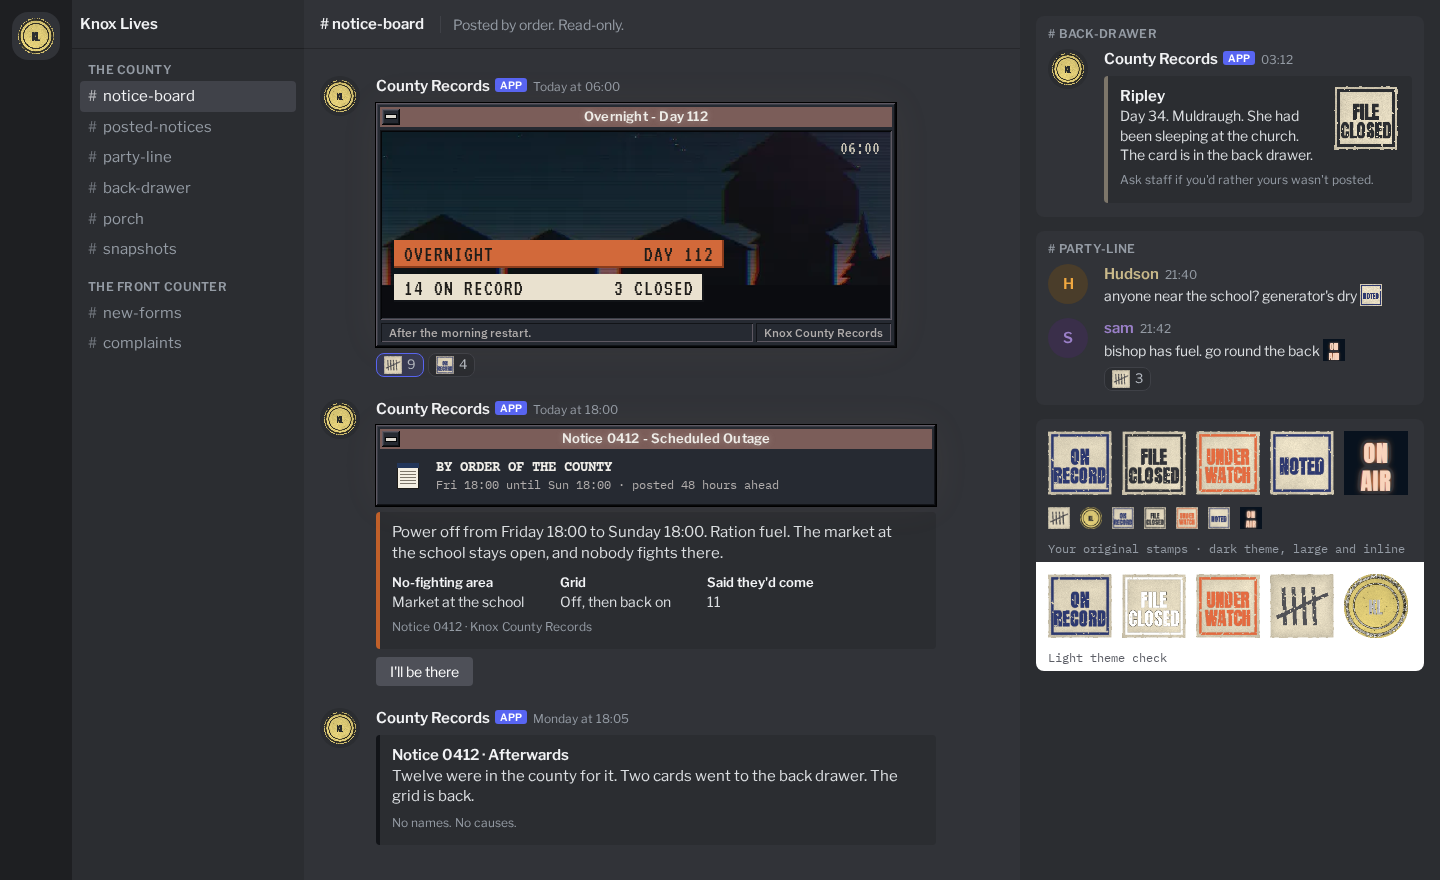
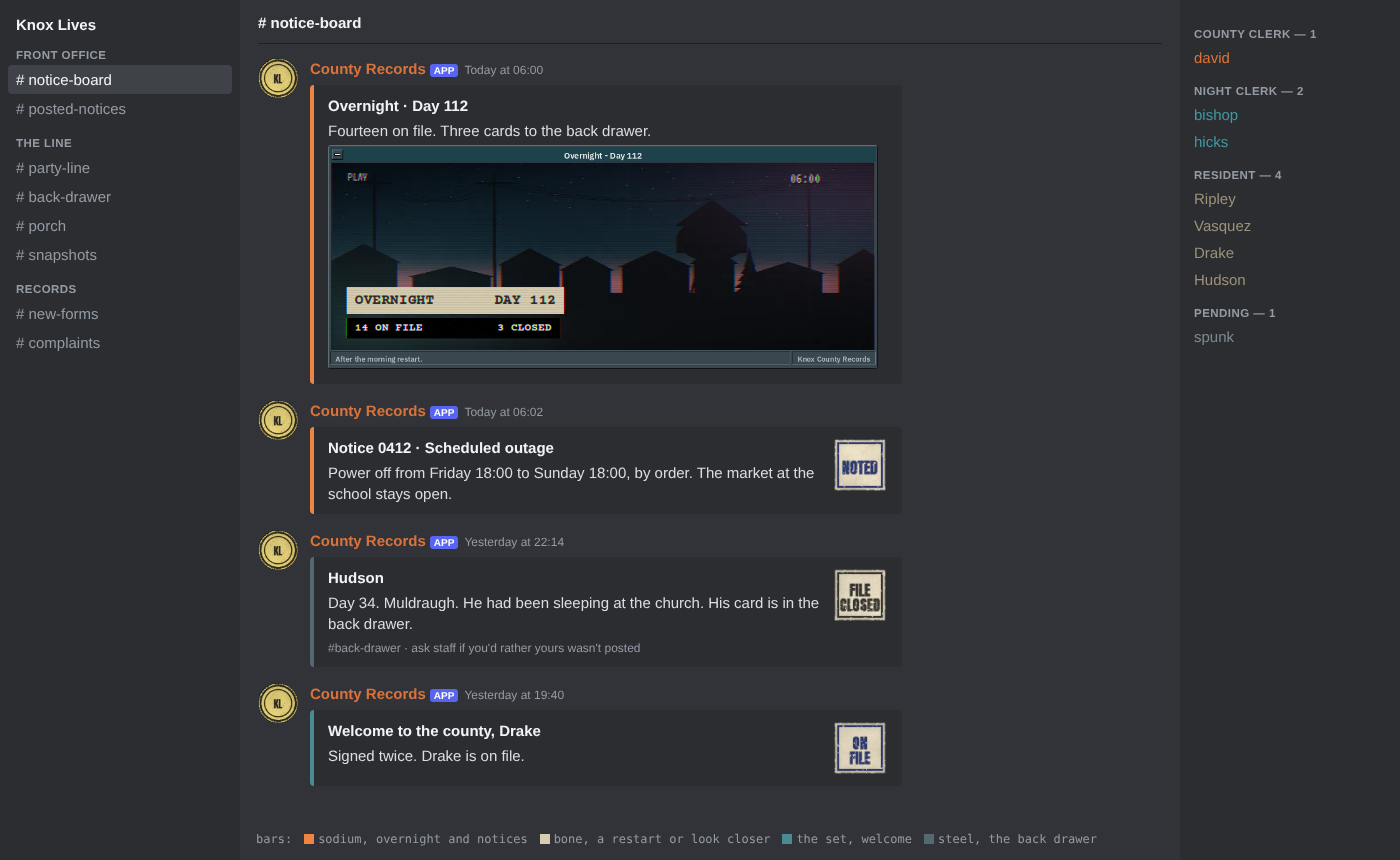
Sign-off: the site in the style book's colours; the briefing rebuilt (auditing and vetting)
Claude-Session: https://claude.ai/code/session_01T8YdQxmeWwRBCqmXfJeBS4

diff --git a/kc-fd1201557399/index.html b/kc-fd1201557399/index.html
@@ -10,24 +10,24 @@
 <link rel="preconnect" href="https://fonts.googleapis.com">
 <link rel="stylesheet" href="https://fonts.googleapis.com/css2?family=IBM+Plex+Sans:ital,wght@0,400;0,600;1,400&family=Courier+Prime:wght@400;700&family=VT323&family=Reenie+Beanie&display=swap">
 <style>
-/* Layout: the County Machine in Dusk (the server family's one look, David 6 Nov). A night desktop;
-   slate windows with horizon-mauve title bars hold each section; cream paper cards are the brightest
-   thing on screen; a clerk's pencil (Reenie Beanie) marks what is only a suggestion; orange only for
+/* Layout: the County Machine in the Sign-off scheme (the style book's colours, Record Began C1a's
+   materials; David 6 Nov). A night desktop; cabinet-steel windows with the set's teal title bars hold each section; cream paper cards are the brightest
+   thing on screen; a clerk's pencil (Reenie Beanie) marks what is only a suggestion; sodium only for
    what is not built yet. Deliberately one dark look: the records room at night. */
 :root{
   color-scheme: dark;
-  --night:#0D0E12; --face:#262A32; --hi:#5E5862; --lt:#3B3E47; --shadow:#121418; --dark:#050608;
-  --title:#7B5D59; --title-deep:#61423E; --title-off:#36313A;
-  --glow:#EFEDE8; --text:#DCD8D0; --mute:#A39DA5; --sun:#BB8E74;
-  --loud:#C0602A; --loud-dark:#E6773F; --ok:#9DB89A;
-  --paper:#E9E1CF; --paper-2:#DDCDAA; --ink:#26304A; --ballpoint:#2D3B6B; --pencil:#3E4046; --stamp:#1E2C6E; --violet:#6A4A9A;
+  --night:#0A141E; --face:#3B474E; --hi:#6A7A82; --lt:#4B5960; --shadow:#1A2328; --dark:#070B0E;
+  --title:#1E424C; --title-deep:#16353D; --title-off:#283238;
+  --glow:#ECF0EC; --text:#CDD5D3; --mute:#8D9CA2; --sun:#D6CCB0;
+  --loud:#EE8642; --loud-dark:#EE8642; --ok:#9DB89A;
+  --paper:#E5DBC1; --paper-2:#D6CCB0; --ink:#282725; --ballpoint:#22284E; --pencil:#46464A; --stamp:#1E2C6E; --violet:#6A4A9A;
   --ui:"IBM Plex Sans", Arial, sans-serif; --typed:"Courier Prime", "Courier New", monospace;
   --term:"VT323", "Courier New", monospace; --hand:"Reenie Beanie", "Comic Sans MS", cursive;
 }
 *{box-sizing:border-box}
 body{background:var(--night);color:var(--text);font:16px/1.6 var(--ui);margin:0}
 .desk{max-width:1120px;margin:0 auto;padding-block:24px 72px;padding-left:max(16px, env(safe-area-inset-left, 0px));padding-right:max(16px, env(safe-area-inset-right, 0px));display:flex;flex-direction:column;gap:30px}
-a{color:#D9B9A6}
+a{color:#D6CCB0}
 a:focus-visible, summary:focus-visible, button:focus-visible{outline:1px dotted var(--glow);outline-offset:2px}
 /* windows */
 .win{background:var(--face);border:1px solid var(--dark);box-shadow:inset 1px 1px 0 var(--hi), inset -1px -1px 0 var(--shadow), inset 2px 2px 0 var(--lt);padding:3px;min-width:0;scroll-margin-top:12px}
@@ -65,18 +65,18 @@ ul,ol{margin:0;padding-left:22px} li+li{margin-top:5px} li{max-width:72ch}
 .card-p p,.card-p li{font-size:15px}
 .card-p .k{font:400 21px/1 var(--term);color:var(--title-deep)}
 .pencil{font:400 27px/1.1 var(--hand);color:var(--pencil)}
-.onslate .pencil,.pencil.dark{color:#C9C2B6}
+.onslate .pencil,.pencil.dark{color:#CDD5D3}
 /* stamps: always words */
 .stamp{display:inline-block;font:700 12px/1 var(--typed);letter-spacing:.12em;text-transform:uppercase;padding:3px 6px;border:2px solid currentColor;transform:rotate(-2deg);white-space:nowrap}
-.stamp.navy{color:var(--stamp)} .stamp.violet{color:var(--violet)} .stamp.pencil{color:var(--pencil);font-family:var(--typed);font-size:12px} .stamp.loud{color:#9C4322}
+.stamp.navy{color:var(--stamp)} .stamp.violet{color:var(--violet)} .stamp.pencil{color:var(--pencil);font-family:var(--typed);font-size:12px} .stamp.loud{color:#864626}
 .onslate .stamp.navy,.win .stamp.navy{color:#AFC0F0} .win .stamp.loud{color:var(--loud-dark)} .win .stamp.ok{color:var(--ok)} .win .stamp.pencil{color:var(--mute)}
-.paper .stamp.navy,.card-p .stamp.navy{color:var(--stamp)} .paper .stamp.loud,.card-p .stamp.loud{color:#9C4322} .card-p .stamp.ok,.paper .stamp.ok{color:#3E6B3A}
+.paper .stamp.navy,.card-p .stamp.navy{color:var(--stamp)} .paper .stamp.loud,.card-p .stamp.loud{color:#864626} .card-p .stamp.ok,.paper .stamp.ok{color:#3E6B3A}
 /* tables */
 .tw{overflow-x:auto;max-width:100%}
 table{border-collapse:collapse;width:100%;font-size:15px}
 th,td{text-align:left;vertical-align:top;padding:8px 10px;border-bottom:1px solid var(--lt)}
 th{color:var(--glow);font-weight:600;background:var(--title-off)}
-.paper th,.paper td{border-bottom:1px solid #C9B98F}
+.paper th,.paper td{border-bottom:1px solid #CDBF9C}
 .paper th{background:var(--paper-2);color:var(--ink)}
 td:first-child{font-weight:600;color:var(--glow)} .paper td:first-child{color:var(--ink)}
 /* flow */
@@ -135,7 +135,7 @@ details.card>.in{padding:4px 16px 18px;display:flex;flex-direction:column;gap:12
     <p class="eyebrow">Knox County, Kentucky · July 1993</p>
     <h1 class="sr">Knox Lives</h1>
     <p class="lede">A small, vetted Project Zomboid server where one world runs for months, the county falls apart and is rebuilt by the people living in it, and a record remembers who they were. This page explains the whole thing from the start, for anyone joining the admin team.</p>
-    <div class="term" role="note">COUNTY RECORDS · ADMINS' BRIEFING<br><span class="c">STATUS</span> DESIGN AGREED · SERVER RENTED · NOTHING LIVE YET<br><span class="c">YOUR PART</span> READ, THEN COME TO THE MEETING WITH VIEWS ON 11 CHOICES<span class="cursor" aria-hidden="true">&nbsp;</span></div>
+    <div class="term" role="note">COUNTY RECORDS · ADMINS' BRIEFING<br><span class="c">STATUS</span> DESIGN AGREED · AUDITING AND VETTING · NOTHING LIVE YET<br><span class="c">YOUR PART</span> READ, THEN COME TO THE MEETING WITH VIEWS ON 11 CHOICES<span class="cursor" aria-hidden="true">&nbsp;</span></div>
     <div class="split">
       <div class="note"><h3>How to read this</h3><p>Top to bottom takes about 30 minutes. Each section starts with the short version; the detail opens behind <b>More &gt;&gt;</b>. Anything in pencil, <span class="pencil dark">like this</span>, is a suggestion for the admins to accept or change.</p></div>
       <div class="note"><h3>What you are asked to do</h3><p>Nothing technical. The code, the mods and the fixes are the workshop's job. The admins decide how the county runs: when things open, how leadership forms, what counts as fair. Those choices are gathered in <a href="#meeting">the meeting</a>.</p></div>
@@ -499,23 +499,23 @@ details.card>.in{padding:4px 16px 18px;display:flex;flex-direction:column;gap:12
     <h2>From paper to a living county</h2>
     <div class="svgw">
       <svg viewBox="0 0 1040 250" width="1040" height="250" role="img" aria-label="Roadmap: design agreed; under review with the admins; testing on the server; the trial run; go-live; chapters.">
-        <line x1="40" y1="70" x2="1000" y2="70" stroke="#5E5862" stroke-width="4"/>
-        <line x1="40" y1="70" x2="330" y2="70" stroke="#BB8E74" stroke-width="4"/>
-        <g font-size="14" fill="#DCD8D0">
-          <circle cx="60" cy="70" r="11" fill="#BB8E74"/><text x="60" y="38" text-anchor="middle" font-weight="600" fill="#EFEDE8">Design</text>
+        <line x1="40" y1="70" x2="1000" y2="70" stroke="#6A7A82" stroke-width="4"/>
+        <line x1="40" y1="70" x2="330" y2="70" stroke="#D6CCB0" stroke-width="4"/>
+        <g font-size="14" fill="#CDD5D3">
+          <circle cx="60" cy="70" r="11" fill="#D6CCB0"/><text x="60" y="38" text-anchor="middle" font-weight="600" fill="#ECF0EC">Design</text>
           <text x="60" y="104" text-anchor="middle">The world, rules,</text><text x="60" y="122" text-anchor="middle">groups, grid, trade,</text><text x="60" y="140" text-anchor="middle">voice, mods</text><text x="60" y="166" text-anchor="middle" fill="#9DB89A">agreed</text>
-          <circle cx="245" cy="70" r="11" fill="#BB8E74"/><text x="245" y="38" text-anchor="middle" font-weight="600" fill="#EFEDE8">Under review</text>
-          <text x="245" y="104" text-anchor="middle">The admins read this,</text><text x="245" y="122" text-anchor="middle">then decide the</text><text x="245" y="140" text-anchor="middle">open choices</text><text x="245" y="166" text-anchor="middle" fill="#BB8E74">now</text>
-          <circle cx="430" cy="70" r="11" fill="#262A32" stroke="#BB8E74" stroke-width="3"/><text x="430" y="38" text-anchor="middle" font-weight="600" fill="#EFEDE8">The trades</text>
+          <circle cx="245" cy="70" r="11" fill="#D6CCB0"/><text x="245" y="38" text-anchor="middle" font-weight="600" fill="#ECF0EC">Under review</text>
+          <text x="245" y="104" text-anchor="middle">The admins read this,</text><text x="245" y="122" text-anchor="middle">then decide the</text><text x="245" y="140" text-anchor="middle">open choices</text><text x="245" y="166" text-anchor="middle" fill="#D6CCB0">now</text>
+          <circle cx="430" cy="70" r="11" fill="#3B474E" stroke="#D6CCB0" stroke-width="3"/><text x="430" y="38" text-anchor="middle" font-weight="600" fill="#ECF0EC">The trades</text>
           <text x="430" y="104" text-anchor="middle">Each trade's work,</text><text x="430" y="122" text-anchor="middle">then justice and</text><text x="430" y="140" text-anchor="middle">outlaws</text>
-          <circle cx="610" cy="70" r="11" fill="#262A32" stroke="#5E5862" stroke-width="3"/><text x="610" y="38" text-anchor="middle" font-weight="600" fill="#EFEDE8">On the server</text>
+          <circle cx="610" cy="70" r="11" fill="#3B474E" stroke="#6A7A82" stroke-width="3"/><text x="610" y="38" text-anchor="middle" font-weight="600" fill="#ECF0EC">On the server</text>
           <text x="610" y="104" text-anchor="middle">First boot, mods one</text><text x="610" y="122" text-anchor="middle">at a time, KnoxWarden</text><text x="610" y="140" text-anchor="middle">built and tested</text>
-          <circle cx="780" cy="70" r="11" fill="#262A32" stroke="#5E5862" stroke-width="3"/><text x="780" y="38" text-anchor="middle" font-weight="600" fill="#EFEDE8">Trial run</text>
+          <circle cx="780" cy="70" r="11" fill="#3B474E" stroke="#6A7A82" stroke-width="3"/><text x="780" y="38" text-anchor="middle" font-weight="600" fill="#ECF0EC">Trial run</text>
           <text x="780" y="104" text-anchor="middle">3 weeks with testers,</text><text x="780" y="122" text-anchor="middle">then a reset</text>
-          <circle cx="930" cy="70" r="11" fill="#262A32" stroke="#5E5862" stroke-width="3"/><text x="930" y="38" text-anchor="middle" font-weight="600" fill="#EFEDE8">Go-live</text>
+          <circle cx="930" cy="70" r="11" fill="#3B474E" stroke="#6A7A82" stroke-width="3"/><text x="930" y="38" text-anchor="middle" font-weight="600" fill="#ECF0EC">Go-live</text>
           <text x="930" y="104" text-anchor="middle">Season Zero,</text><text x="930" y="122" text-anchor="middle">then the chapters</text>
         </g>
-        <text x="40" y="226" font-size="13" fill="#A39DA5">Filled: done. Ringed in sun: next. Grey: to come. No dates: each step starts when the one before is right.</text>
+        <text x="40" y="226" font-size="13" fill="#8D9CA2">Filled: done. Ringed in sun: next. Grey: to come. No dates: each step starts when the one before is right.</text>
       </svg>
     </div>
     <h3>Already checked and working</h3>
@@ -526,7 +526,7 @@ details.card>.in{padding:4px 16px 18px;display:flex;flex-direction:column;gap:12
         <tr><td>The mod list</td><td>Every mod downloaded and read, each checked for multiplayer problems and clashes. The full launch list loads together without errors in our server tools. Problem mods removed or fixed in our own fixer mod.</td></tr>
         <tr><td>The admin panel and Discord bot</td><td>Built and tested on a PC: applications with two signatures, restarts with warnings, backups, numbered notices, the morning card, death cards, chat between game and Discord.</td></tr>
         <tr><td>KnoxWarden</td><td>Early version: safe zones, new-arrival shield, logs of hits, deaths and combat logs.</td></tr>
-        <tr><td>The server</td><td>Rented in Johannesburg. First boot is next.</td></tr>
+        <tr><td>The server</td><td>A hosted server in Johannesburg, close to launch. First boot comes after the audit and vetting now under way.</td></tr>
         <tr><td>Not yet tested anywhere</td><td>Anything inside a running server. That starts now.</td></tr>
       </tbody>
     </table></div>
@@ -541,17 +541,17 @@ details.card>.in{padding:4px 16px 18px;display:flex;flex-direction:column;gap:12
     <p class="lede">Each town's return to power is a county event the admins help run. No code involved: the admins pick the night, announce it, and watch. Everything else is automatic.</p>
     <div class="svgw">
       <svg viewBox="0 0 1040 200" width="1040" height="200" role="img" aria-label="The grid event in six steps: survey, supply, repair, switch-on night, lit, upkeep, with brownout leading back to dark.">
-        <defs><marker id="ah" viewBox="0 0 10 10" refX="9" refY="5" markerWidth="7" markerHeight="7" orient="auto"><path d="M0,0 L10,5 L0,10 z" fill="#BB8E74"/></marker></defs>
+        <defs><marker id="ah" viewBox="0 0 10 10" refX="9" refY="5" markerWidth="7" markerHeight="7" orient="auto"><path d="M0,0 L10,5 L0,10 z" fill="#D6CCB0"/></marker></defs>
         <g font-size="14">
-          <rect x="10" y="40" width="150" height="70" fill="#050608" stroke="#3B3E47"/><text x="85" y="66" text-anchor="middle" fill="#BB8E74" font-weight="600">1 · Survey</text><text x="85" y="88" text-anchor="middle" fill="#DCD8D0">find the substation</text>
-          <rect x="185" y="40" width="150" height="70" fill="#050608" stroke="#3B3E47"/><text x="260" y="66" text-anchor="middle" fill="#BB8E74" font-weight="600">2 · Supply</text><text x="260" y="88" text-anchor="middle" fill="#DCD8D0">fill the supply cage</text>
-          <rect x="360" y="40" width="150" height="70" fill="#050608" stroke="#3B3E47"/><text x="435" y="66" text-anchor="middle" fill="#BB8E74" font-weight="600">3 · Repair</text><text x="435" y="88" text-anchor="middle" fill="#DCD8D0">12 hours of work</text>
-          <rect x="535" y="40" width="150" height="70" fill="#050608" stroke="#C0602A"/><text x="610" y="66" text-anchor="middle" fill="#E6773F" font-weight="600">4 · Switch-on</text><text x="610" y="88" text-anchor="middle" fill="#DCD8D0">hold the night</text>
-          <rect x="710" y="40" width="150" height="70" fill="#050608" stroke="#3B3E47"/><text x="785" y="66" text-anchor="middle" fill="#BB8E74" font-weight="600">5 · Lit</text><text x="785" y="88" text-anchor="middle" fill="#DCD8D0">lights, fridges, pumps</text>
-          <rect x="885" y="40" width="145" height="70" fill="#050608" stroke="#3B3E47"/><text x="957" y="66" text-anchor="middle" fill="#BB8E74" font-weight="600">6 · Upkeep</text><text x="957" y="88" text-anchor="middle" fill="#DCD8D0">fuel and parts weekly</text>
-          <path d="M160 75 H183 M335 75 H358 M510 75 H533 M685 75 H708 M860 75 H883" stroke="#BB8E74" stroke-width="2" marker-end="url(#ah)"/>
-          <path d="M957 110 V160 H435 V112" fill="none" stroke="#A39DA5" stroke-width="2" stroke-dasharray="5 4" marker-end="url(#ah)"/>
-          <text x="696" y="182" text-anchor="middle" fill="#A39DA5">missed upkeep: 2 days' warning, then dark; relighting needs 4 hours of repair</text>
+          <rect x="10" y="40" width="150" height="70" fill="#070B0E" stroke="#4B5960"/><text x="85" y="66" text-anchor="middle" fill="#D6CCB0" font-weight="600">1 · Survey</text><text x="85" y="88" text-anchor="middle" fill="#CDD5D3">find the substation</text>
+          <rect x="185" y="40" width="150" height="70" fill="#070B0E" stroke="#4B5960"/><text x="260" y="66" text-anchor="middle" fill="#D6CCB0" font-weight="600">2 · Supply</text><text x="260" y="88" text-anchor="middle" fill="#CDD5D3">fill the supply cage</text>
+          <rect x="360" y="40" width="150" height="70" fill="#070B0E" stroke="#4B5960"/><text x="435" y="66" text-anchor="middle" fill="#D6CCB0" font-weight="600">3 · Repair</text><text x="435" y="88" text-anchor="middle" fill="#CDD5D3">12 hours of work</text>
+          <rect x="535" y="40" width="150" height="70" fill="#070B0E" stroke="#EE8642"/><text x="610" y="66" text-anchor="middle" fill="#EE8642" font-weight="600">4 · Switch-on</text><text x="610" y="88" text-anchor="middle" fill="#CDD5D3">hold the night</text>
+          <rect x="710" y="40" width="150" height="70" fill="#070B0E" stroke="#4B5960"/><text x="785" y="66" text-anchor="middle" fill="#D6CCB0" font-weight="600">5 · Lit</text><text x="785" y="88" text-anchor="middle" fill="#CDD5D3">lights, fridges, pumps</text>
+          <rect x="885" y="40" width="145" height="70" fill="#070B0E" stroke="#4B5960"/><text x="957" y="66" text-anchor="middle" fill="#D6CCB0" font-weight="600">6 · Upkeep</text><text x="957" y="88" text-anchor="middle" fill="#CDD5D3">fuel and parts weekly</text>
+          <path d="M160 75 H183 M335 75 H358 M510 75 H533 M685 75 H708 M860 75 H883" stroke="#D6CCB0" stroke-width="2" marker-end="url(#ah)"/>
+          <path d="M957 110 V160 H435 V112" fill="none" stroke="#8D9CA2" stroke-width="2" stroke-dasharray="5 4" marker-end="url(#ah)"/>
+          <text x="696" y="182" text-anchor="middle" fill="#8D9CA2">missed upkeep: 2 days' warning, then dark; relighting needs 4 hours of repair</text>
         </g>
       </svg>
     </div>
@@ -600,7 +600,7 @@ details.card>.in{padding:4px 16px 18px;display:flex;flex-direction:column;gap:12
   <div class="wb">
     <h2>The county's front door and the admins' desk</h2>
     <p class="lede">One bot, County Records, connects the game and Discord. Players apply, read notices and talk to the game from there. Admins approve, warn, restart and run events from there, without opening the server.</p>
-    <figure><img src="discord.png" alt="A mock-up of the Knox Lives Discord: the morning card, a scheduled outage notice with an I'll be there button, a death card in the back drawer, the party line and the stamps." width="1440" height="880" loading="lazy"><figcaption>How it looks: the morning card, an outage notice with an "I'll be there" button, its quiet recap, a death card, the game's chat.</figcaption></figure>
+    <figure><img src="discord.png" alt="A mock-up of the Knox Lives Discord: the overnight card, a scheduled outage notice, a death card in the back drawer, a welcome, and the roles in their colours." width="1400" height="860" loading="lazy"><figcaption>How it looks: the overnight card, an outage notice, a death card in the back drawer, a welcome, and the roles in their colours.</figcaption></figure>
     <div class="tw"><table>
       <thead><tr><th>Need</th><th>How it works</th></tr></thead>
       <tbody>

diff --git a/hub.css b/hub.css
@@ -1,10 +1,10 @@
-/* Knox Lives: the county's look, Dusk. The room is the night; paper is the brightest thing on screen; one burnt orange, used rarely. */
+/* Knox Lives: the county's look, Sign-off (the style book's night, the county's steel cabinet, bone and cream paper with a rust top, sodium the one loud light). The room is the night; paper is the brightest thing on screen; one burnt orange, used rarely. */
 :root{
   color-scheme: dark;
-  --night:#0D0E12; --face:#262A32; --hi:#5E5862; --lt:#3B3E47; --shadow:#121418; --dark:#050608;
-  --title:#7B5D59; --title-deep:#61423E; --title-off:#36313A;
-  --glow:#EFEDE8; --text:#DCD8D0; --mute:#A39DA5; --sun:#BB8E74; --loud:#E6773F;
-  --paper:#E9E1CF; --paper-2:#DDCDAA; --ink:#26304A; --ballpoint:#2D3B6B; --pencil:#3E4046; --stamp:#1E2C6E;
+  --night:#0A141E; --face:#3B474E; --hi:#6A7A82; --lt:#4B5960; --shadow:#1A2328; --dark:#070B0E;
+  --title:#1E424C; --title-deep:#17333B; --title-off:#283238;
+  --glow:#ECF0EC; --text:#CDD5D3; --mute:#9AA8AE; --sun:#D6CCB0; --loud:#EE8642;
+  --paper:#E5DBC1; --paper-2:#D6CCB0; --ink:#282725; --ballpoint:#22284E; --pencil:#46464A; --stamp:#1E2C6E;
   --ui:"IBM Plex Sans", Arial, sans-serif; --typed:"Courier Prime", "Courier New", monospace;
   --term:"VT323", "Courier New", monospace; --hand:"Reenie Beanie", cursive;
 }
@@ -12,7 +12,7 @@
 html{background:var(--night)}
 body{background:var(--night);color:var(--text);font:17px/1.6 var(--ui);margin:0}
 .desk{max-width:1080px;margin:0 auto;padding-block:28px 72px;padding-left:max(16px, env(safe-area-inset-left, 0px));padding-right:max(16px, env(safe-area-inset-right, 0px));display:flex;flex-direction:column;gap:30px}
-a{color:#D9B9A6}
+a{color:#D6CCB0}
 a:focus-visible,summary:focus-visible{outline:1px dotted var(--glow);outline-offset:2px}
 .top{display:flex;flex-wrap:wrap;justify-content:space-between;align-items:baseline;gap:8px 20px;border-bottom:1px solid var(--lt);padding-bottom:12px}
 .top b{font:400 26px/1 var(--term);color:var(--glow);letter-spacing:.04em}
@@ -36,7 +36,7 @@ section{display:flex;flex-direction:column;gap:16px}
 .paper a{color:var(--ballpoint)}
 .k{font:400 21px/1 var(--term);color:var(--title-deep)}
 .stamp{display:inline-block;font:700 12px/1 var(--typed);letter-spacing:.12em;text-transform:uppercase;padding:3px 6px;border:2px solid currentColor;transform:rotate(-2deg);white-space:nowrap;align-self:flex-start}
-.stamp.navy{color:var(--stamp)} .stamp.sun{color:#8A5638}
+.stamp.navy{color:var(--stamp)} .stamp.sun{color:#864626}
 .win .stamp.navy{color:#AFC0F0} .win .stamp.sun{color:var(--sun)}
 .road{list-style:none;padding:0;margin:0;display:flex;flex-direction:column;gap:0}
 .road li{display:grid;grid-template-columns:22px minmax(0,1fr);gap:0 12px;margin:0}
@@ -50,7 +50,7 @@ section{display:flex;flex-direction:column;gap:16px}
 .term{background:var(--dark);color:var(--glow);font:20px/1.3 var(--term);padding:12px 16px}
 .term i{font-style:normal;color:var(--sun)}
 .foot{color:var(--mute);font-size:14px;border-top:1px solid var(--lt);padding-top:12px}
-.pencil{font:400 27px/1.1 var(--hand);color:#C9C2B6}
+.pencil{font:400 27px/1.1 var(--hand);color:#CDD5D3}
 table{border-collapse:collapse;width:100%;font-size:15.5px}
 th,td{text-align:left;vertical-align:top;padding:8px 10px;border-bottom:1px solid var(--lt)}
 th{background:var(--title-off);color:var(--glow)}

diff --git a/index.html b/index.html
@@ -34,7 +34,7 @@
         <span class="stamp navy">in testing · 0.10</span></article>
       <article class="paper"><span class="k">THE SERVER</span><h3>Knox Lives: the county</h3>
         <p>A small, vetted multiplayer server. One world that runs for months, power restored town by town, trades that need each other, outlaws answered in the world, and a record of everyone who lived there. <a href="server.html">What you'd be getting into.</a></p>
-        <span class="stamp sun">server rented · testing next</span></article>
+        <span class="stamp sun">auditing and vetting</span></article>
       <article class="paper"><span class="k">THE PARTY LINE</span><h3>Knox Lives on Discord</h3>
         <p>Where the county talks: applications, notices, the morning card, quiet death notices, and the game's chat. One bot, County Records, ties it to the server.</p>
         <span class="stamp sun">being set up</span></article>
